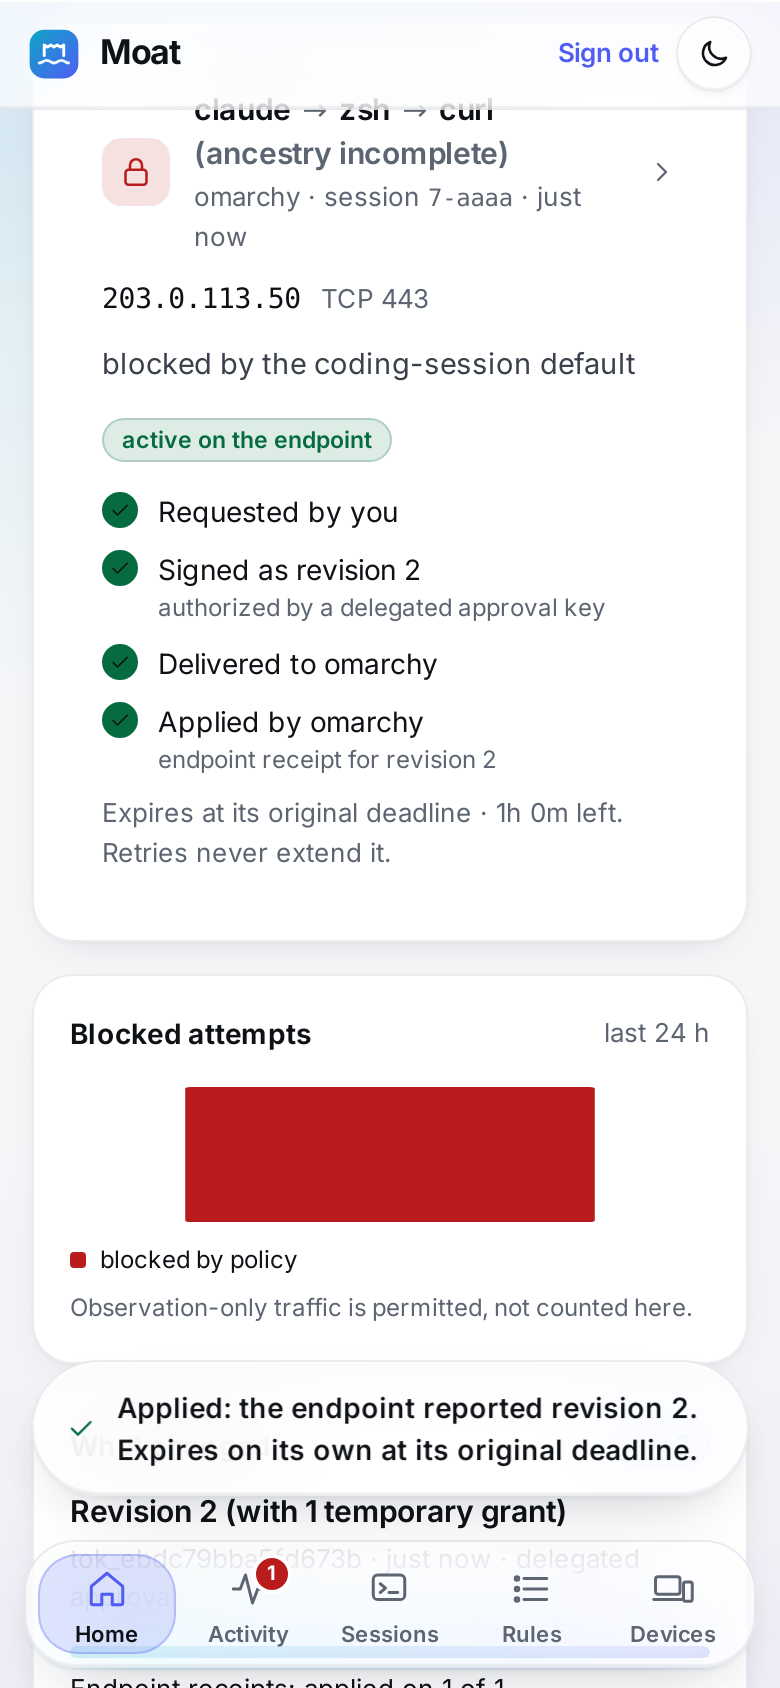
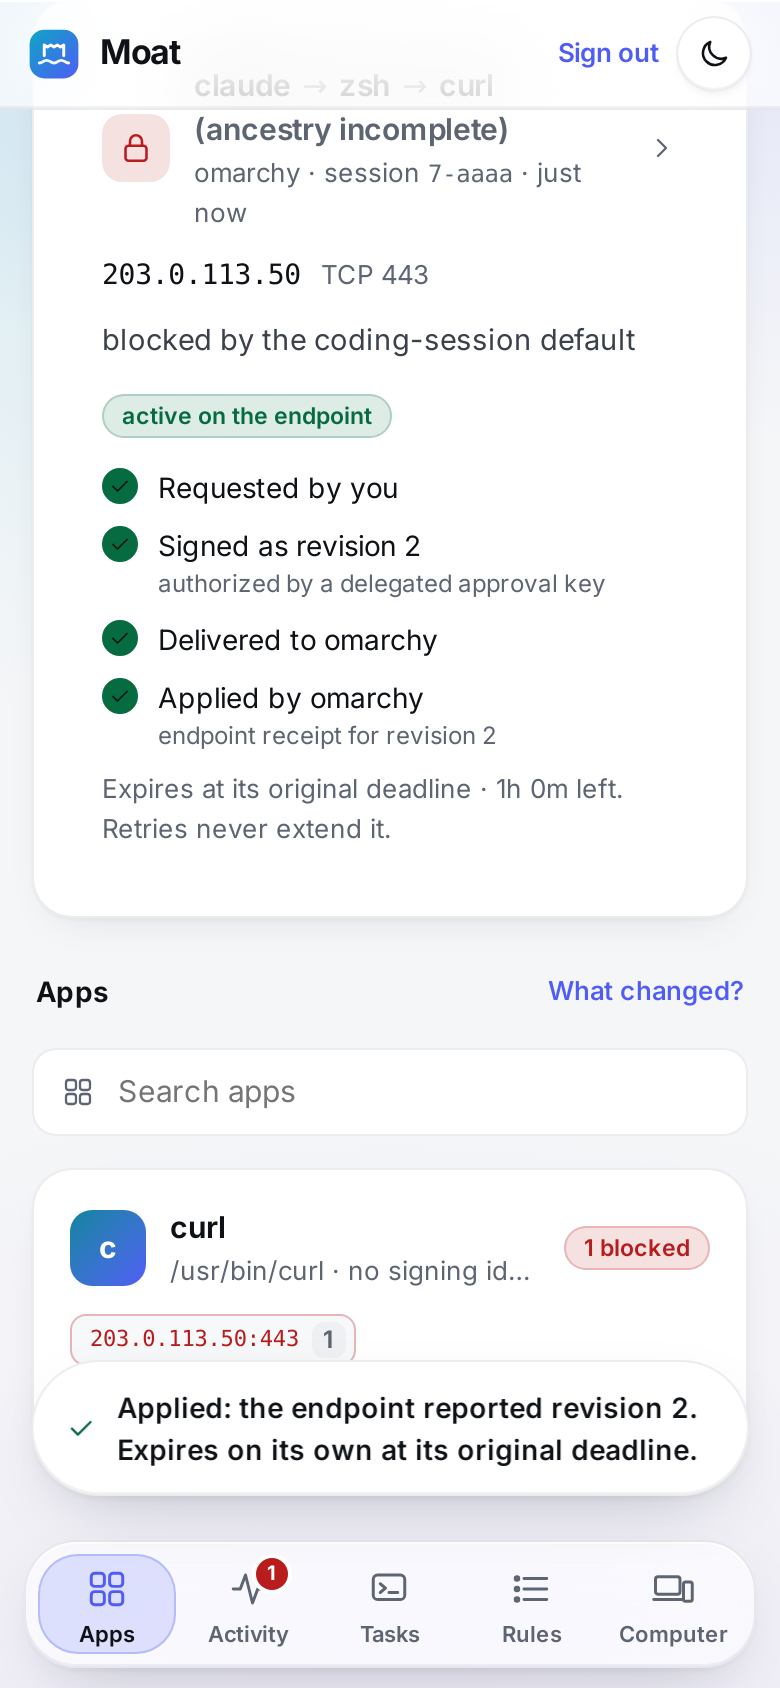
docs/screenshots: reviewed captures from this PR's CI (web demo, web live, macOS windows incl. the local-rule card); retire pre-W12 macOS names

diff --git a/docs/platforms/macos.md b/docs/platforms/macos.md
@@ -8,7 +8,7 @@ policy, coverage and recovery, and talks to the extension only through a small t
 > Every capability is advertised as `untested` or `unsupported` until the device proofs in
 > [STATUS.md](../STATUS.md) pass.
 
-![Overview](../screenshots/macos-overview-dark.png)
+![Overview](../screenshots/macos-apps-dark.png)
 
 ## Layout
 
